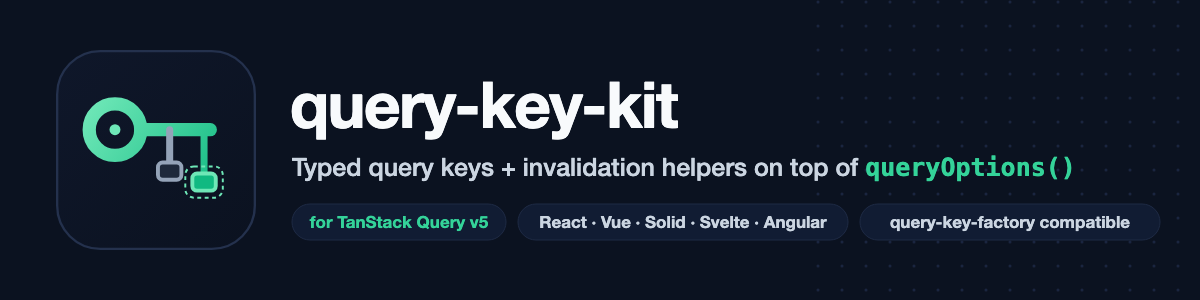
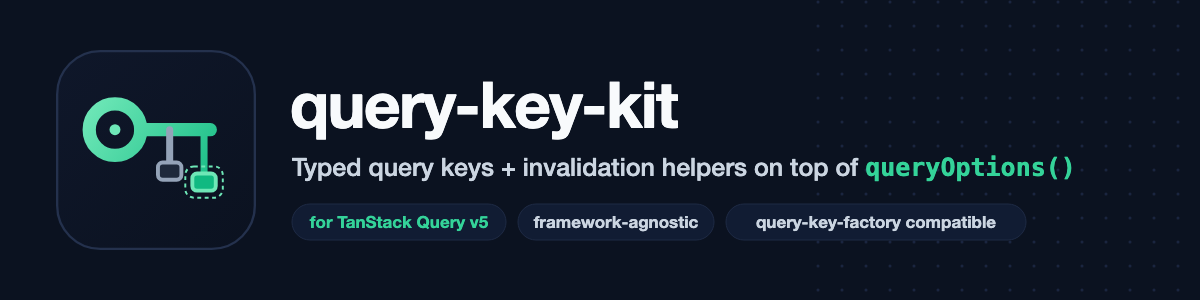
Say framework-agnostic instead of listing untested adapters; fix download figure
Art, README and package description no longer list Solid, Svelte and Angular,
which have no tests of their own. The lukemorales figure is now the verifiable
npm monthly total (1,407,860 for 2026-09-19..10-18) instead of a weekly
estimate distorted by npm's 2026-10-13..15 data gap.

Changed region(s): [[0.4317, 0.72, 0.9558, 0.81], [0.8633, 0.66, 0.9558, 0.69], [0.5858, 0.66, 0.6167, 0.69]]

diff --git a/README.md b/README.md
@@ -7,7 +7,7 @@
 
 # query-key-kit: typed query keys for TanStack Query v5
 
-A typed **query-key factory** for TanStack Query v5 (React Query, Vue Query, Solid Query, Svelte Query, Angular Query). Organise your query keys in scopes, get real `queryOptions()` objects back with `DataTag`-branded keys, and invalidate or update whole branches of the cache with typed helpers. It keeps the API of `@lukemorales/query-key-factory`, so switching is an import change.
+A typed, framework-agnostic **query-key factory** for TanStack Query v5, tested with React Query and Vue Query. Organise your query keys in scopes, get real `queryOptions()` objects back with `DataTag`-branded keys, and invalidate or update whole branches of the cache with typed helpers. It keeps the API of `@lukemorales/query-key-factory`, so switching is an import change.
 
 [![npm](https://img.shields.io/npm/v/@amjadiqbal/query-key-kit?style=flat-square)](https://www.npmjs.com/package/@amjadiqbal/query-key-kit)
 [![bundle size](https://img.shields.io/bundlephobia/minzip/@amjadiqbal/query-key-kit?style=flat-square&label=min%2Bgzip)](https://bundlephobia.com/package/@amjadiqbal/query-key-kit)
@@ -43,7 +43,7 @@ invalidateScope(queryClient, todos);           // everything under 'todos'
 
 ## Why
 
-TanStack Query v5's `queryOptions()` already keeps a key and its fetcher together. What it does not give you is a **key hierarchy**: one place that says which keys exist, how they nest, and which partial key to pass when you invalidate. Teams write that by hand, or use `@lukemorales/query-key-factory`, which gets about 400k downloads a week but has had no release since February 2024 and still has open v5 typing bugs.
+TanStack Query v5's `queryOptions()` already keeps a key and its fetcher together. What it does not give you is a **key hierarchy**: one place that says which keys exist, how they nest, and which partial key to pass when you invalidate. Teams write that by hand, or use `@lukemorales/query-key-factory`, which gets about 1.4 million downloads a month but has had no release since February 2024 and still has open v5 typing bugs.
 
 query-key-kit is a maintained, v5-first take on the same idea:
 
@@ -52,7 +52,7 @@ query-key-kit is a maintained, v5-first take on the same idea:
 - **Infinite queries.** `pageParam` is available in `queryFn`, and an entry with `initialPageParam` works with `useInfiniteQuery` and `fetchInfiniteQuery`.
 - **Typed scope helpers.** `invalidateScope`, `refetchScope`, `cancelScope`, `removeScope`, `getScopeData` and `setScopeData` take any node of the tree and pick the right partial key. `getScopeData` and `setScopeData` know the data type of every query they match.
 - **Mutations.** `createMutationKeys` keeps `mutationFn`'s own type, so `useMutation` infers variables and result.
-- **Every framework.** It depends only on `@tanstack/query-core` types, so the same keys work with `@tanstack/react-query`, `vue-query`, `solid-query`, `svelte-query` and `angular-query-experimental`.
+- **Framework-agnostic.** It depends only on `@tanstack/query-core` types, so the same keys work with any adapter. Tested with `@tanstack/react-query` and `@tanstack/vue-query`; Solid, Svelte and Angular Query share those core types but have no tests of their own yet.
 - **Small.** No runtime dependencies, ESM only, tree-shakeable.
 
 ## Install

diff --git a/CHANGELOG.md b/CHANGELOG.md
@@ -8,6 +8,7 @@ The format follows [Keep a Changelog](https://keepachangelog.com/en/1.1.0/), and
 ### Changed
 
 - The npm package now includes `CHANGELOG.md`.
+- README, package description and art say "framework-agnostic" instead of listing Solid, Svelte and Angular, which have no tests of their own yet.
 
 ## [0.1.0] - 2026-10-23
 
